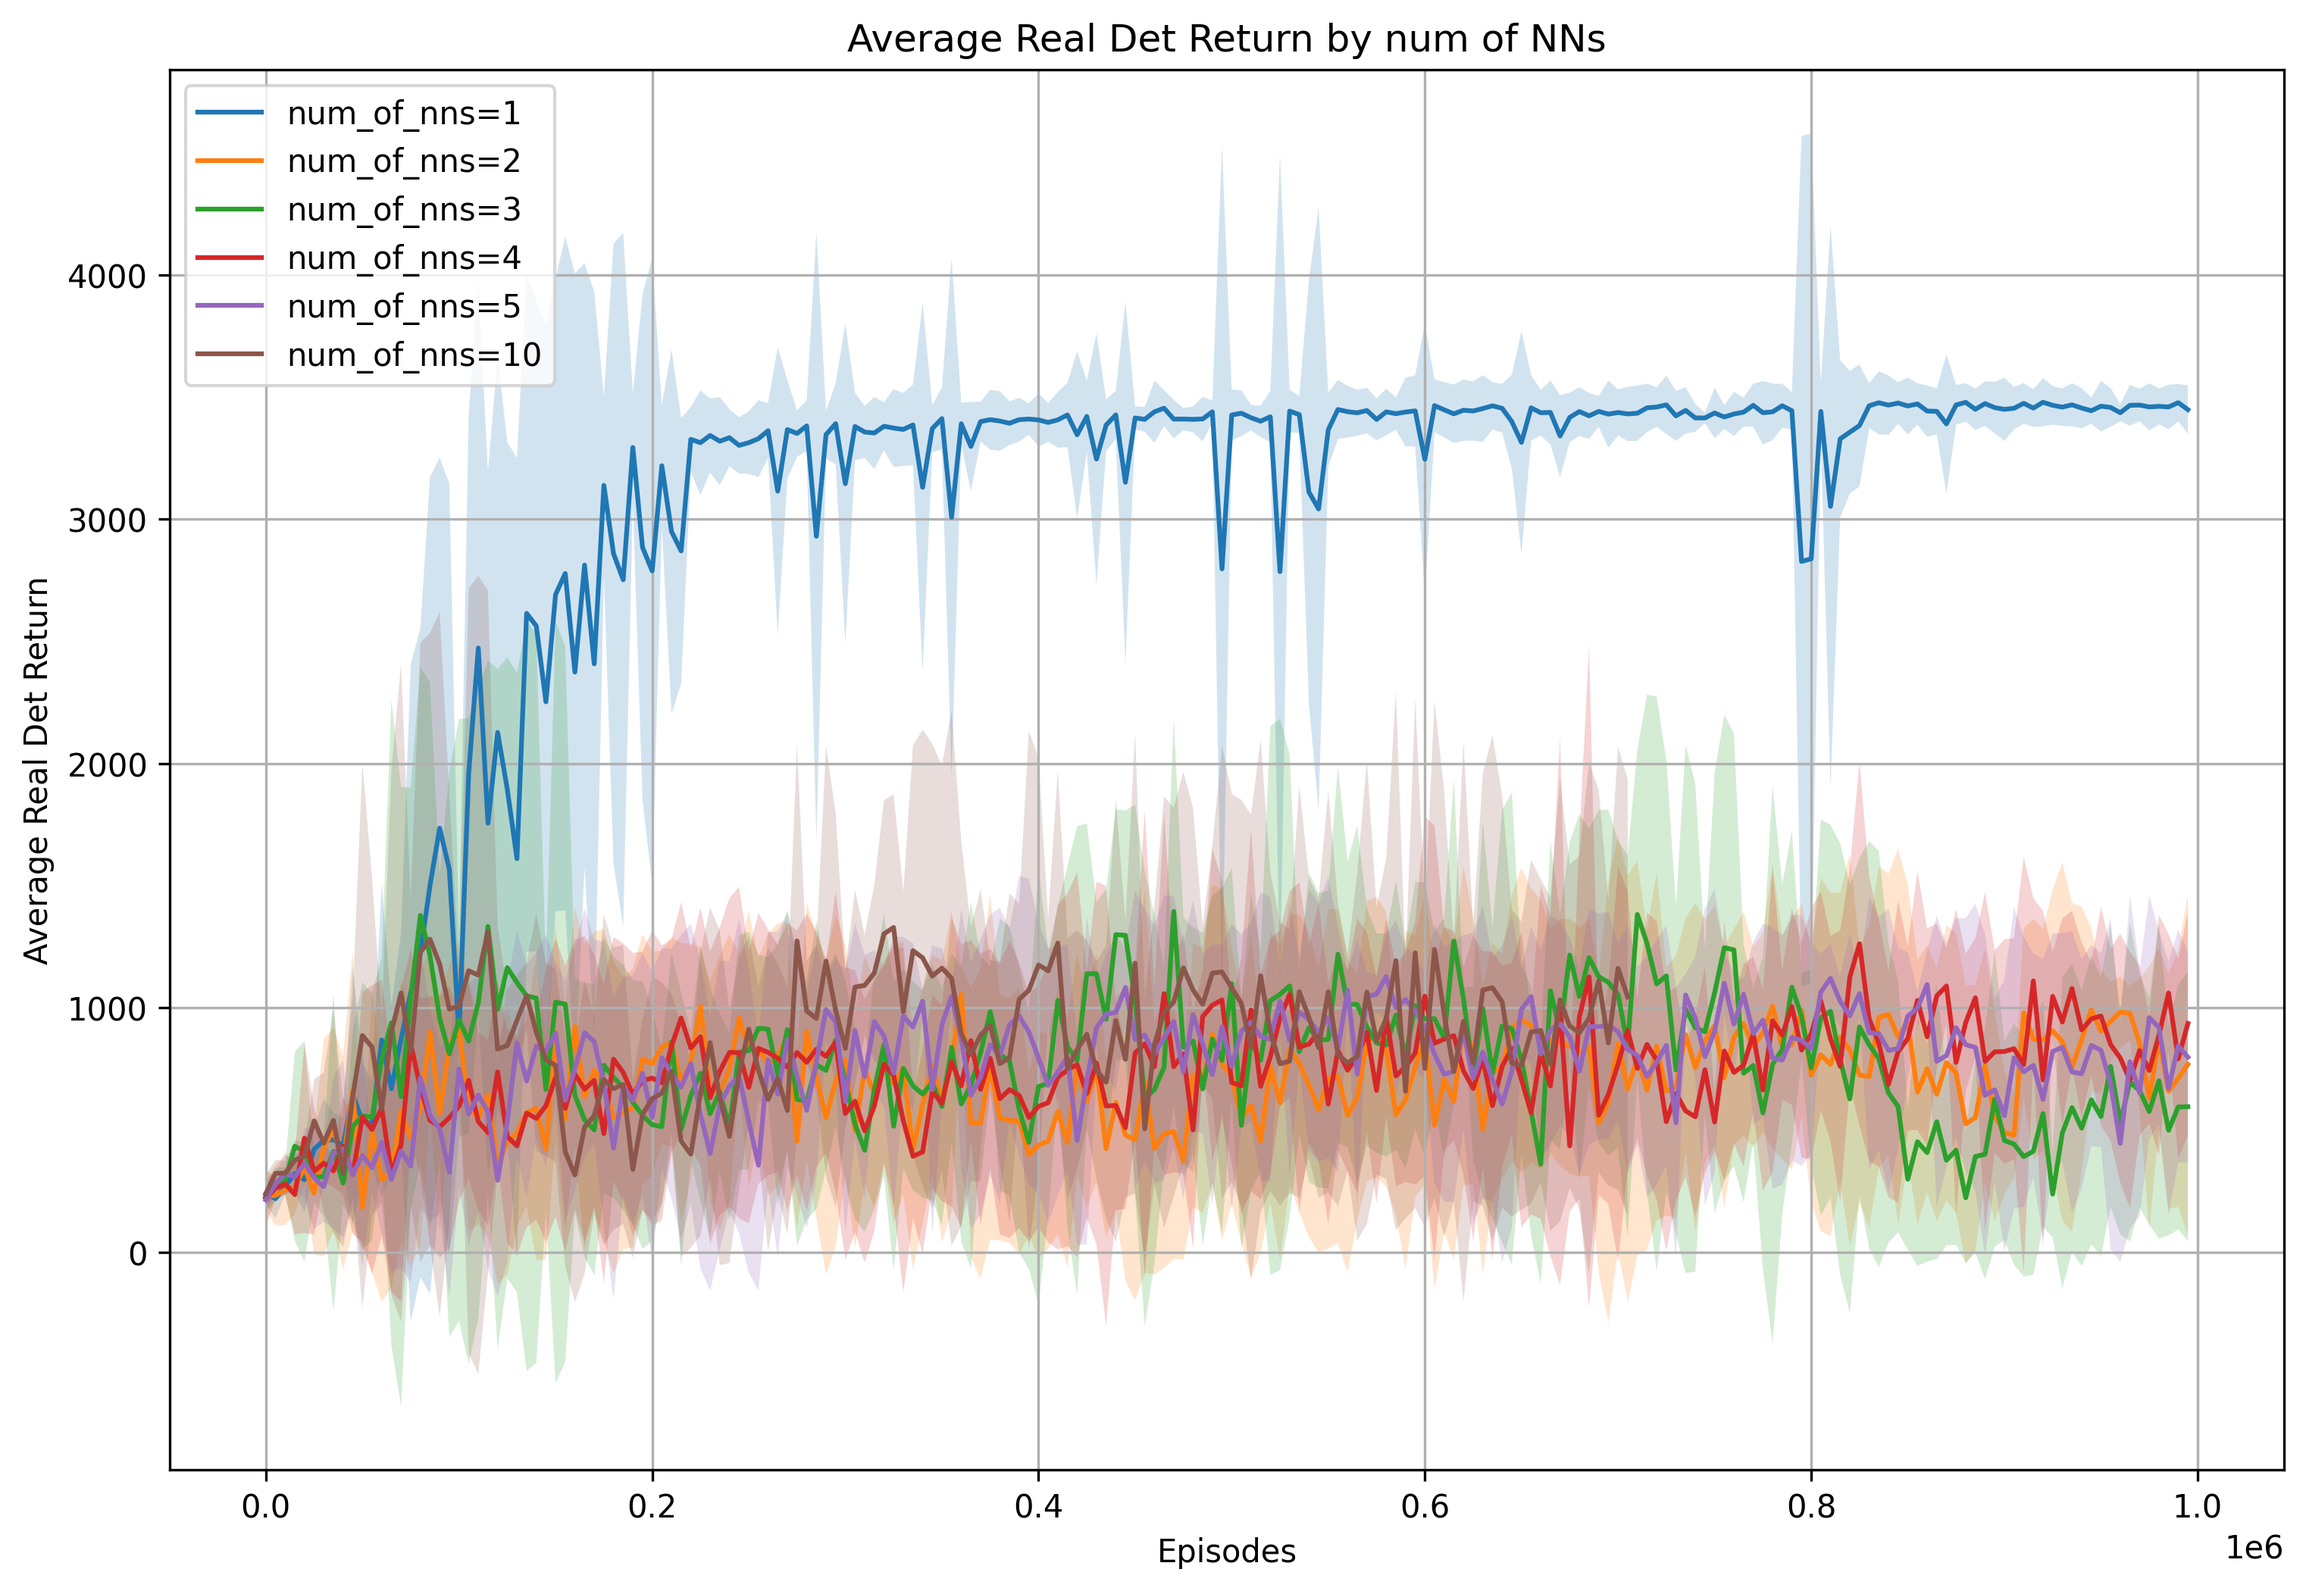
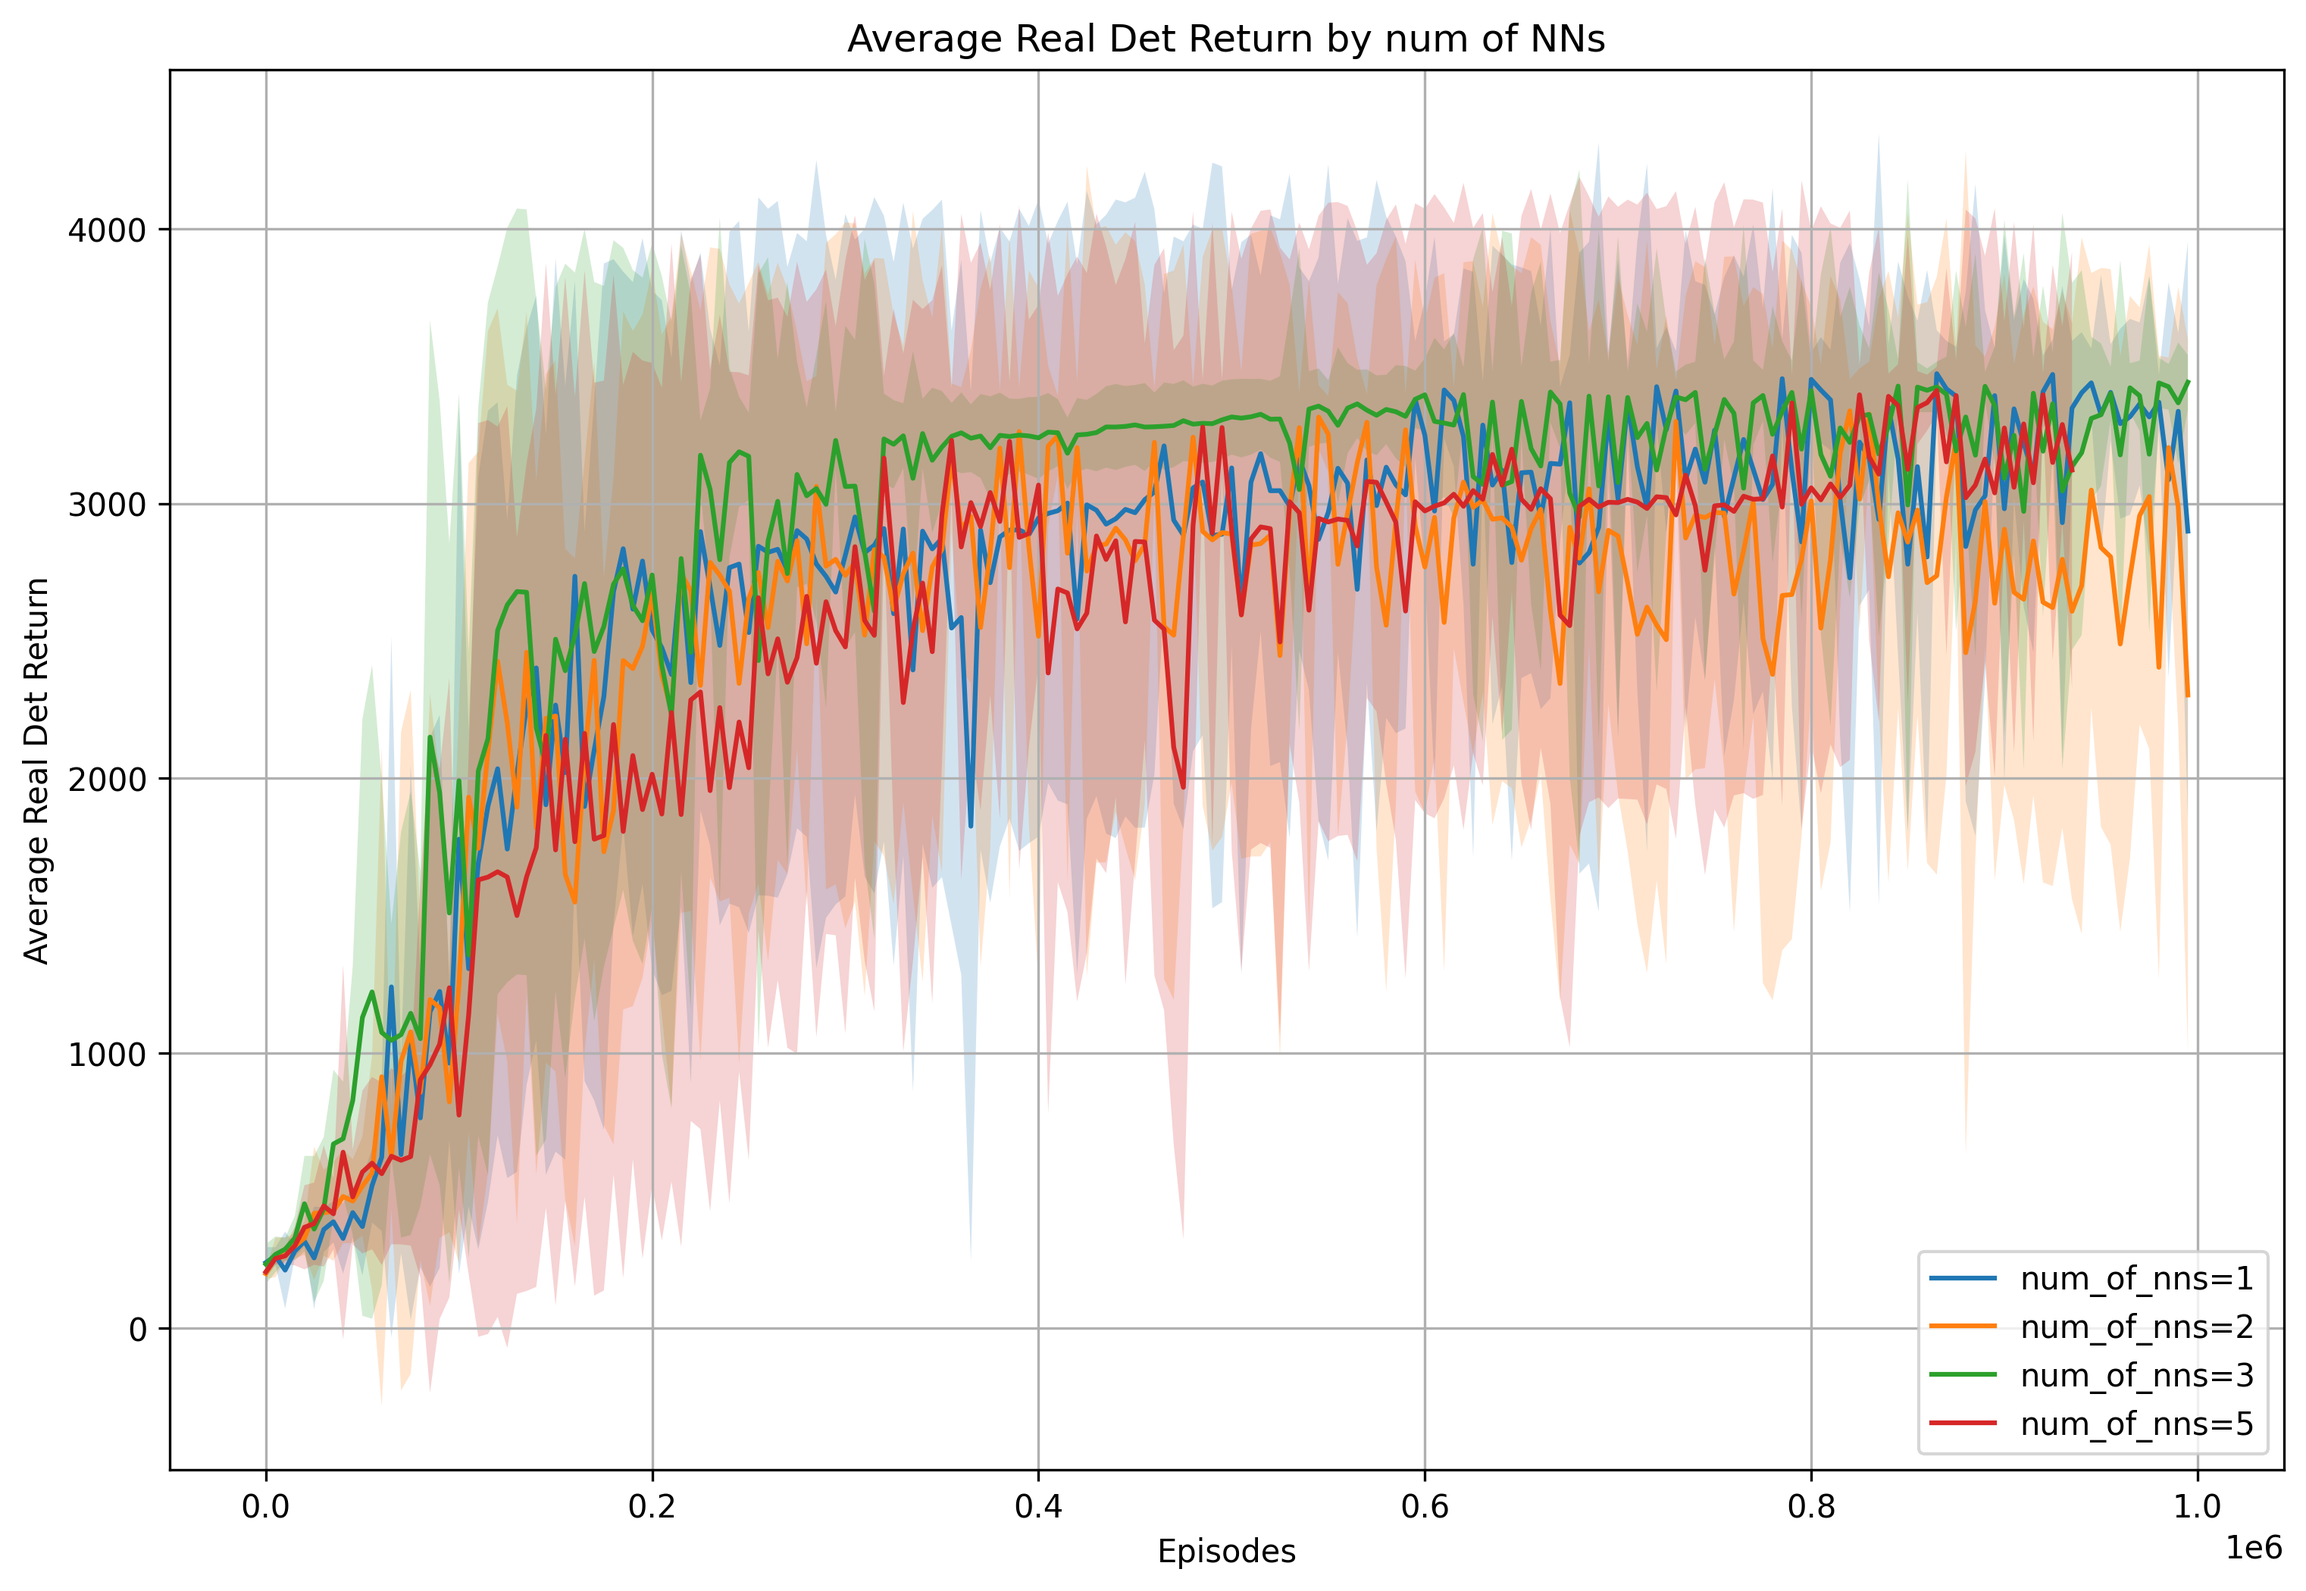
clipping

diff --git a/common/mod_sac.py b/common/mod_sac.py
@@ -8,9 +8,9 @@ import itertools
 import numpy as np
 import torch
 from torch.optim import Adam
+# import pdb
 import gym
 import time
-import pdb
 import sys
 import common.sac_agent as core
 
@@ -210,11 +210,13 @@ class SAC:
                              add_time=add_time, device=device, num_q_pairs=num_q_pairs, **ac_kwargs)
         self.ac_targ = deepcopy(self.ac)
 
-        pdb.set_trace()
+        
 
         # Freeze target networks with respect to optimizers
         for p in self.ac_targ.parameters():
             p.requires_grad = False
+
+        # pdb.set_trace()
             
         # Create separate optimizers for each Q-network pair
         self.q_optimizers = [Adam(pair_params, lr=lr) 
@@ -291,17 +293,17 @@ class SAC:
         
         # Compute mean and std of minimum Q-values
         q_mins = [torch.min(q1, q2) for q1, q2 in zip(q1_vals, q2_vals)]
-        q_max = torch.max(q_mins)
+        # q_max = torch.max(torch.stack(q_mins, dim=0), dim=0)[0]
         q_mean = torch.mean(torch.stack(q_mins, dim=0), dim=0)
         
         if len(q_mins) > 1:
-            q_std = torch.std(torch.stack(q_mins, dim=0), dim=0)
-            exploration_bonus = self.uncertainty_coef * q_std  # Use the coefficient here
+            q_std = torch.clamp(torch.std(torch.stack(q_mins, dim=0), dim=0), 0, 1)
+            exploration_bonus = self.uncertainty_coef * q_std  
         else:
             exploration_bonus = 0
         
         # Use mean + exploration bonus in policy loss
-        loss_pi = (self.alpha * logp_pi - (q_max)).mean()
+        loss_pi = (self.alpha * logp_pi - (q_mean)).mean()
         return loss_pi, logp_pi
 
 
